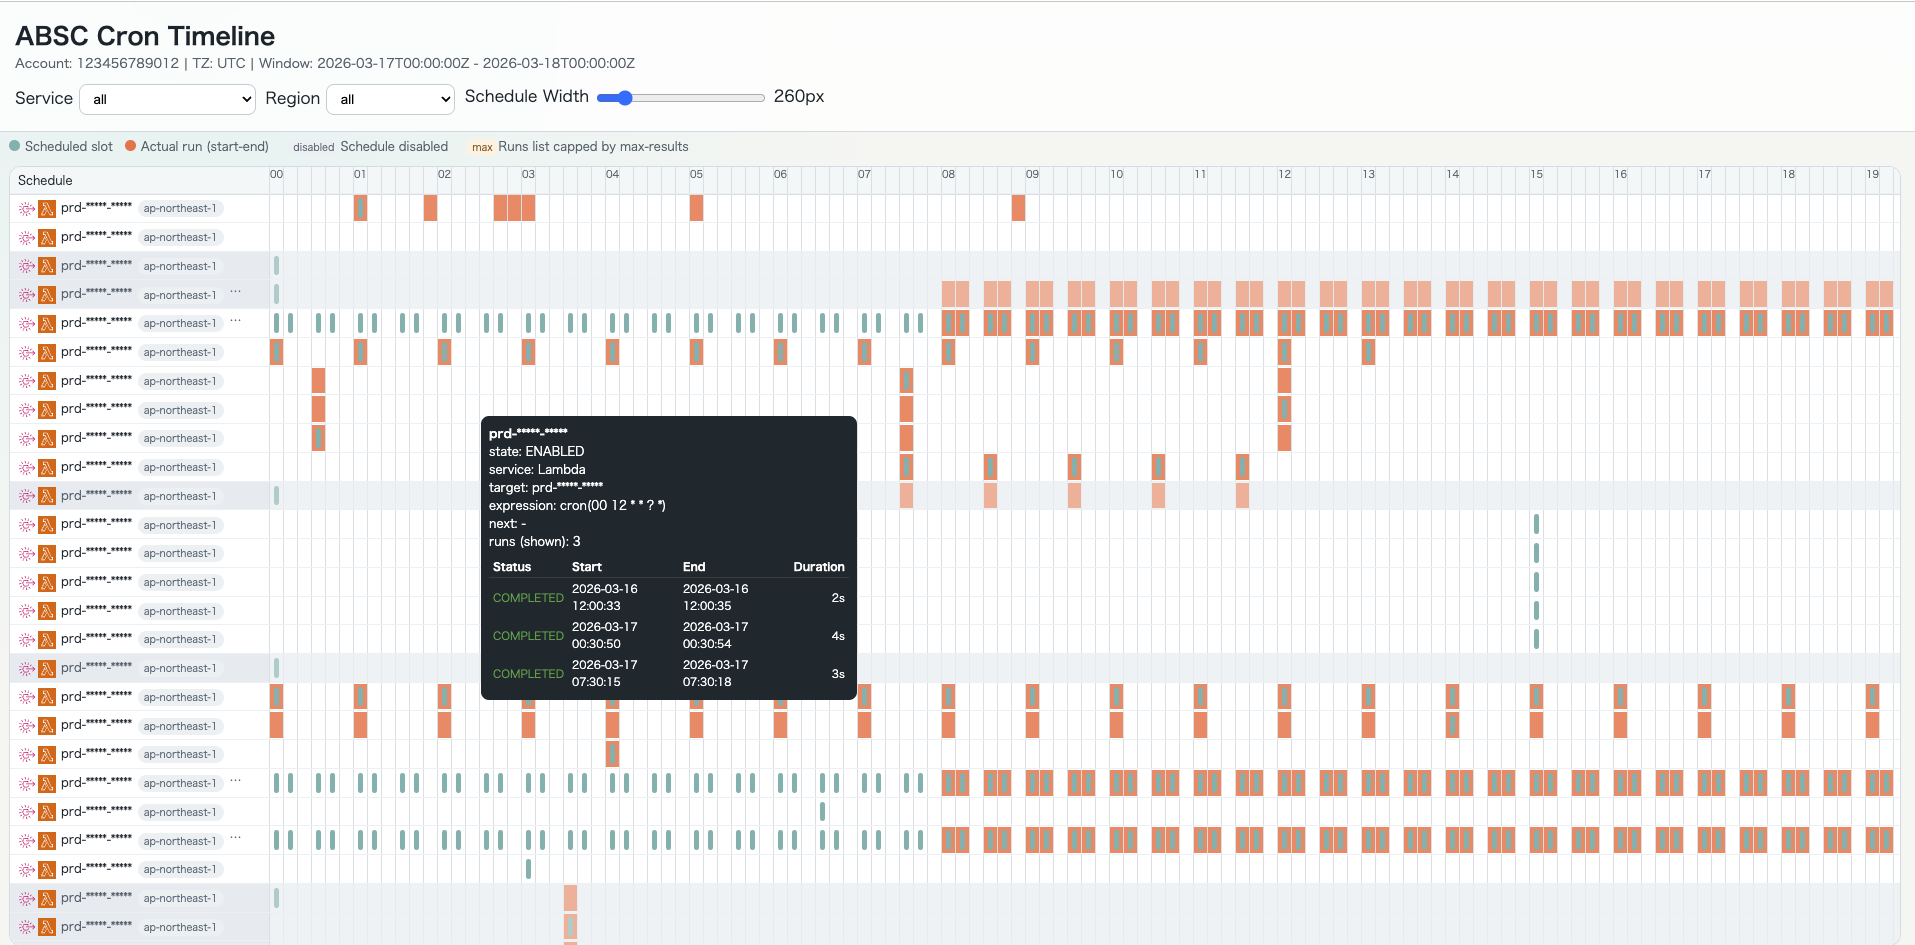
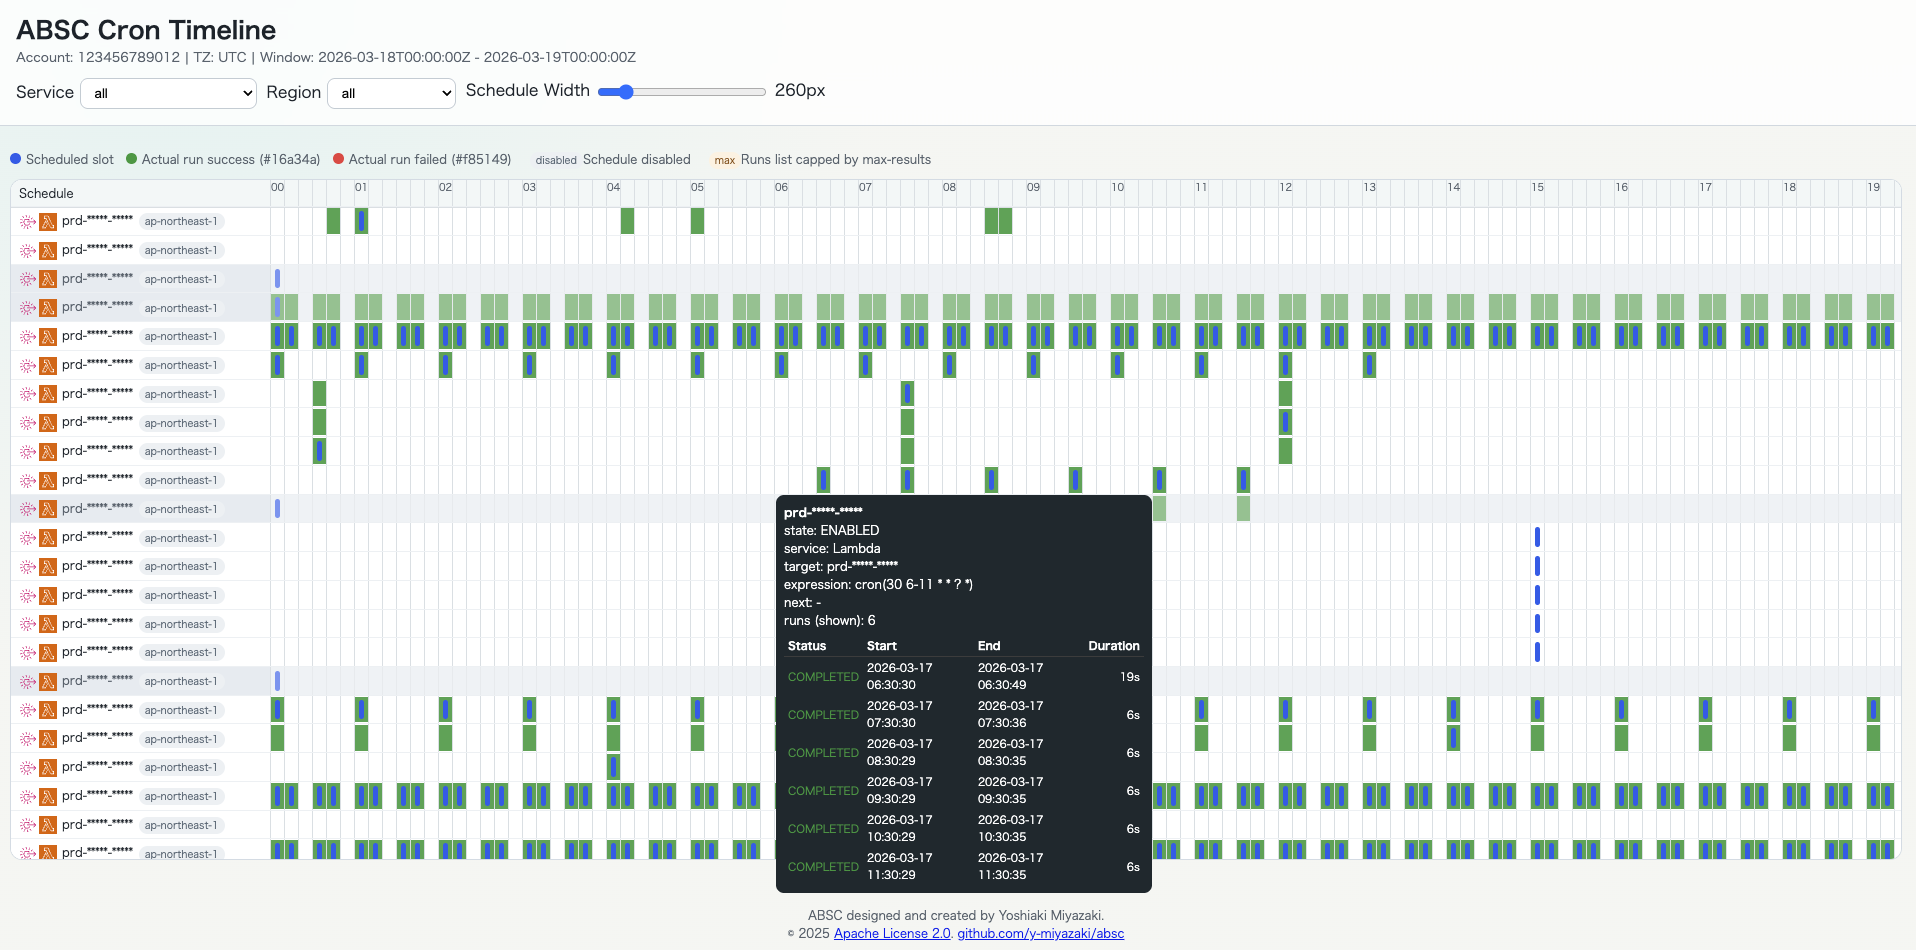
Enhance ECS and Glue run collection with optional filters; update HTML template styles

diff --git a/internal/exporter/html_template.html b/internal/exporter/html_template.html
@@ -13,9 +13,9 @@
       --sub: #5f6b76;
       --accent: #006d77;
       --grid: #dde3e7;
-      --run-success: #3fb950;
+      --run-success: #16a34a;
       --run-fail: #f85149;
-      --scheduled: #7db9b6;
+      --scheduled: #2563eb;
       --name-col-width: 260px;
     }
     body { margin: 0; font-family: "Noto Sans", "Segoe UI", sans-serif; color: var(--text); background: radial-gradient(circle at 10% 0%, #e4f4f3, var(--bg) 35%); display: flex; flex-direction: column; height: 100vh; overflow: hidden; }
@@ -30,7 +30,7 @@
     .dot.sch { background: var(--scheduled); }
     .dot.run-ok { background: var(--run-success); }
     .dot.run-fail { background: var(--run-fail); }
-    .timeline { border: 1px solid #d7e0e7; background: var(--panel); border-radius: 12px; overflow: auto; flex: 1; min-height: 0; }
+    .timeline { border: 1px solid #d7e0e7; background: var(--panel); border-radius: 12px; overflow: auto; flex: 1; min-height: 0; padding-bottom: 16px; box-sizing: border-box; }
     .row {
       display: grid;
       grid-template-columns: var(--name-col-width) repeat(144, 14px);
@@ -86,7 +86,7 @@
 <main>
   <div class="legend">
     <span><span class="dot sch"></span>Scheduled slot</span>
-    <span><span class="dot run-ok"></span>Actual run success (#3fb950)</span>
+    <span><span class="dot run-ok"></span>Actual run success (#16a34a)</span>
     <span><span class="dot run-fail"></span>Actual run failed (#f85149)</span>
     <span><span class="badge">disabled</span>Schedule disabled</span>
     <span><span class="badge warn">max</span>Runs list capped by max-results</span>
@@ -252,7 +252,7 @@ function render() {
         tooltip.style.left = e.clientX + 'px';
         tooltip.style.top = e.clientY + 'px';
         const recentRuns = (s.runs || []).slice(0, 8);
-        const statusColor = st => runClass(st) === 'run-fail' ? '#f85149' : '#3fb950';
+        const statusColor = st => runClass(st) === 'run-fail' ? '#f85149' : '#16a34a';
         const fmtDur = sec => {
           if (sec == null) return '-';
           if (sec < 60) return sec + 's';

diff --git a/internal/aws/resources/scheduler.go b/internal/aws/resources/scheduler.go
@@ -27,6 +27,13 @@ type SchedulerCollector struct {
 	region   string
 }
 
+type runTargetResolution struct {
+	hints              runTargetHints
+	runJobName         string
+	runTargetARN       string
+	hasBatchParameters bool
+}
+
 // NewSchedulerCollector builds regional clients for EventBridge Scheduler.
 func NewSchedulerCollector(cfg *aws.Config, region string) (*SchedulerCollector, error) {
 	return &SchedulerCollector{
@@ -79,9 +86,14 @@ func (c *SchedulerCollector) Collect(ctx context.Context, opts CollectOptions) (
 			runTargetARN := ""
 			runJobName := ""
 			hasBatchParameters := false
+			hints := runTargetHints{}
 			if detail.Target != nil {
 				targetARN = aws.ToString(detail.Target.Arn)
-				runTargetARN, runJobName, hasBatchParameters = resolveSchedulerRunTarget(targetARN, aws.ToString(detail.Target.Input))
+				resolved := resolveSchedulerRunTarget(targetARN, aws.ToString(detail.Target.Input))
+				runTargetARN = resolved.runTargetARN
+				runJobName = resolved.runJobName
+				hasBatchParameters = resolved.hasBatchParameters
+				hints = resolved.hints
 				if runTargetARN == "" {
 					runTargetARN = targetARN
 				}
@@ -105,7 +117,7 @@ func (c *SchedulerCollector) Collect(ctx context.Context, opts CollectOptions) (
 				Slots:                      buildSlots(aws.ToString(detail.ScheduleExpression)),
 				Runs:                       make([]Run, 0),
 			}
-			runs, runErr := collectRunsByTargetKind(ctx, targetKind, runTargetARN, runJobName, opts, deps, caches)
+			runs, runErr := collectRunsByTargetKind(ctx, targetKind, runTargetARN, runJobName, hints, opts, deps, caches)
 			if runErr != nil {
 				errs = append(errs, *runErr)
 			} else if runs != nil {
@@ -121,38 +133,41 @@ func (c *SchedulerCollector) Collect(ctx context.Context, opts CollectOptions) (
 }
 
 // resolveSchedulerRunTarget extracts the real downstream target from SDK inputs.
-func resolveSchedulerRunTarget(targetARN, input string) (runTargetARN, runJobName string, hasBatchParameters bool) {
+func resolveSchedulerRunTarget(targetARN, input string) runTargetResolution {
 	lowerARN := strings.ToLower(targetARN)
 	if strings.Contains(lowerARN, ":aws-sdk:sfn:startexecution") {
 		if v := getStringFromJSON(input, "StateMachineArn", "stateMachineArn", "state_machine_arn"); v != "" {
-			return v, "", false
+			return runTargetResolution{runTargetARN: v}
 		}
-		return "", "", false
+		return runTargetResolution{}
 	}
 	if strings.Contains(lowerARN, ":aws-sdk:batch:submitjob") {
 		queue := getStringFromJSON(input, "JobQueue", "jobQueue", "job_queue")
 		name := getStringFromJSON(input, "JobName", "jobName", "job_name")
-		return queue, name, true
+		return runTargetResolution{runTargetARN: queue, runJobName: name, hasBatchParameters: true}
 	}
 	if strings.Contains(lowerARN, ":aws-sdk:lambda:invoke") {
 		if v := getStringFromJSON(input, "FunctionName", "functionName", "function_name"); v != "" {
-			return v, "", false
+			return runTargetResolution{runTargetARN: v}
 		}
-		return "", "", false
+		return runTargetResolution{}
 	}
 	if strings.Contains(lowerARN, ":aws-sdk:glue:") {
 		if v := getStringFromJSON(input, "JobName", "jobName", "job_name"); v != "" {
-			return v, "", false
+			return runTargetResolution{runTargetARN: v}
 		}
-		return "", "", false
+		return runTargetResolution{}
 	}
 	if strings.Contains(lowerARN, ":aws-sdk:ecs:") {
+		resolved := runTargetResolution{}
 		if v := getStringFromJSON(input, "Cluster", "cluster"); v != "" {
-			return v, "", false
+			resolved.runTargetARN = v
 		}
-		return "", "", false
+		resolved.hints.ecsTaskDefinitionARN = getStringFromJSON(input, "TaskDefinition", "taskDefinition", "task_definition")
+		resolved.hints.ecsStartedBy = getStringFromJSON(input, "StartedBy", "startedBy", "started_by")
+		return resolved
 	}
-	return "", "", strings.Contains(lowerARN, ":batch:")
+	return runTargetResolution{hasBatchParameters: strings.Contains(lowerARN, ":batch:")}
 }
 
 // getStringFromJSON returns the first matching string field from a JSON object.

diff --git a/internal/aws/resources/eventbridge.go b/internal/aws/resources/eventbridge.go
@@ -11,6 +11,7 @@ import (
 	"github.com/aws/aws-sdk-go-v2/service/cloudwatchlogs"
 	"github.com/aws/aws-sdk-go-v2/service/ecs"
 	"github.com/aws/aws-sdk-go-v2/service/eventbridge"
+	eventbridgetypes "github.com/aws/aws-sdk-go-v2/service/eventbridge/types"
 	"github.com/aws/aws-sdk-go-v2/service/glue"
 	"github.com/aws/aws-sdk-go-v2/service/sfn"
 )
@@ -71,12 +72,25 @@ func (c *EventBridgeCollector) Collect(ctx context.Context, opts CollectOptions)
 				continue
 			}
 			enabled := strings.EqualFold(string(r.State), "ENABLED")
-			targets, listTargetsErr := c.svc.ListTargetsByRule(ctx, &eventbridge.ListTargetsByRuleInput{Rule: r.Name})
-			if listTargetsErr != nil {
-				errs = append(errs, ErrorRecord{Service: "eventbridge_rule", Region: c.region, Message: listTargetsErr.Error()})
+			allTargets := make([]eventbridgetypes.Target, 0)
+			var targetsToken *string
+			for {
+				targets, listTargetsErr := c.svc.ListTargetsByRule(ctx, &eventbridge.ListTargetsByRuleInput{Rule: r.Name, NextToken: targetsToken})
+				if listTargetsErr != nil {
+					errs = append(errs, ErrorRecord{Service: "eventbridge_rule", Region: c.region, Message: listTargetsErr.Error()})
+					allTargets = nil
+					break
+				}
+				allTargets = append(allTargets, targets.Targets...)
+				if targets.NextToken == nil {
+					break
+				}
+				targetsToken = targets.NextToken
+			}
+			if allTargets == nil {
 				continue
 			}
-			if len(targets.Targets) == 0 {
+			if len(allTargets) == 0 {
 				// EventBridge Rule APIs do not expose a deterministic "next invocation" timestamp,
 				// so this collector intentionally leaves NextInvocationAt empty.
 				schedules = append(schedules, Schedule{
@@ -95,11 +109,15 @@ func (c *EventBridgeCollector) Collect(ctx context.Context, opts CollectOptions)
 				continue
 			}
 
-			for i := range targets.Targets {
-				t := targets.Targets[i]
+			for i := range allTargets {
+				t := allTargets[i]
 				targetARN := aws.ToString(t.Arn)
 				targetKind := detectTargetKind(targetARN, t.BatchParameters != nil)
 				targetService := detectTargetService(targetARN)
+				hints := runTargetHints{}
+				if t.EcsParameters != nil {
+					hints.ecsTaskDefinitionARN = aws.ToString(t.EcsParameters.TaskDefinitionArn)
+				}
 				// EventBridge Rule APIs do not expose a deterministic "next invocation" timestamp,
 				// so this collector intentionally leaves NextInvocationAt empty.
 				s := Schedule{
@@ -123,7 +141,7 @@ func (c *EventBridgeCollector) Collect(ctx context.Context, opts CollectOptions)
 					jobName = aws.ToString(t.BatchParameters.JobName)
 				}
 
-				runs, runErr := collectRunsByTargetKind(ctx, targetKind, targetARN, jobName, opts, deps, caches)
+				runs, runErr := collectRunsByTargetKind(ctx, targetKind, targetARN, jobName, hints, opts, deps, caches)
 				if runErr != nil {
 					errs = append(errs, *runErr)
 				} else if runs != nil {

diff --git a/internal/aws/resources/collect_glue.go b/internal/aws/resources/collect_glue.go
@@ -23,38 +23,54 @@ func collectGlueRuns(ctx context.Context, svc *glue.Client, jobNameOrARN string,
 
 	// Limit the API request size to the Glue SDK's int32 field.
 	maxRes := safeInt32(maxResults)
-	// Glue returns newest job runs first, so filtering can remain linear.
-	out, err := svc.GetJobRuns(ctx, &glue.GetJobRunsInput{
-		JobName:    aws.String(jobName),
-		MaxResults: &maxRes,
-	})
-	if err != nil {
-		return nil, fmt.Errorf("get glue job runs for %s: %w", jobName, err)
+	if maxRes == 0 {
+		maxRes = safeInt32(defaultMaxResults)
 	}
 
-	runs := make([]Run, 0, len(out.JobRuns))
-	// Filter out historical runs outside the caller's lookback window.
-	for jobRunIndex := range out.JobRuns {
-		// Preserve Glue-specific fields while normalizing timestamps to UTC strings.
-		r := out.JobRuns[jobRunIndex]
-		if r.StartedOn == nil {
-			continue
+	runs := make([]Run, 0, maxResults)
+	var nextToken *string
+	for len(runs) < maxResults {
+		// Glue returns newest job runs first, so filtering can remain linear.
+		out, err := svc.GetJobRuns(ctx, &glue.GetJobRunsInput{
+			JobName:    aws.String(jobName),
+			MaxResults: &maxRes,
+			NextToken:  nextToken,
+		})
+		if err != nil {
+			return nil, fmt.Errorf("get glue job runs for %s: %w", jobName, err)
 		}
-		if r.StartedOn.Before(since) {
-			continue
+
+		// Filter out historical runs outside the caller's lookback window.
+		for jobRunIndex := range out.JobRuns {
+			// Preserve Glue-specific fields while normalizing timestamps to UTC strings.
+			r := out.JobRuns[jobRunIndex]
+			if r.StartedOn == nil {
+				continue
+			}
+			if r.StartedOn.Before(since) {
+				continue
+			}
+			run := Run{
+				RunID:         aws.ToString(r.Id),
+				Status:        string(r.JobRunState),
+				StartAt:       formatRFC3339UTC(*r.StartedOn),
+				SourceService: "glue",
+			}
+			if r.CompletedOn != nil {
+				run.EndAt = formatRFC3339UTC(*r.CompletedOn)
+				dur := int64(r.CompletedOn.Sub(*r.StartedOn).Seconds())
+				run.DurationSec = &dur
+			}
+			runs = append(runs, run)
+			if len(runs) >= maxResults {
+				break
+			}
 		}
-		run := Run{
-			RunID:         aws.ToString(r.Id),
-			Status:        string(r.JobRunState),
-			StartAt:       formatRFC3339UTC(*r.StartedOn),
-			SourceService: "glue",
+
+		if out.NextToken == nil {
+			break
 		}
-		if r.CompletedOn != nil {
-			run.EndAt = formatRFC3339UTC(*r.CompletedOn)
-			dur := int64(r.CompletedOn.Sub(*r.StartedOn).Seconds())
-			run.DurationSec = &dur
-		}
-		runs = append(runs, run)
+		nextToken = out.NextToken
 	}
 	return runs, nil
 }

diff --git a/internal/aws/resources/collect_runs.go b/internal/aws/resources/collect_runs.go
@@ -21,6 +21,12 @@ type runCollectorDeps struct {
 	region   string
 }
 
+// runTargetHints carries optional target-specific filters for run lookups.
+type runTargetHints struct {
+	ecsStartedBy         string
+	ecsTaskDefinitionARN string
+}
+
 // runCollectorCaches stores per-target run lookups to avoid duplicate API calls.
 // Successes and failures are both memoized for one collection pass.
 type runCollectorCaches struct {
@@ -54,7 +60,7 @@ func newRunCollectorCaches() *runCollectorCaches {
 
 // collectRunsByTargetKind routes each target to the service-specific run collector.
 // Cache lookups keep repeated targets within the same export from re-querying AWS.
-func collectRunsByTargetKind(ctx context.Context, targetKind, targetARN, jobName string, opts CollectOptions, deps runCollectorDeps, caches *runCollectorCaches) ([]Run, *ErrorRecord) {
+func collectRunsByTargetKind(ctx context.Context, targetKind, targetARN, jobName string, hints runTargetHints, opts CollectOptions, deps runCollectorDeps, caches *runCollectorCaches) ([]Run, *ErrorRecord) {
 	switch targetKind {
 	case "stepfunctions":
 		// Step Functions executions are keyed by the state machine ARN.
@@ -76,8 +82,9 @@ func collectRunsByTargetKind(ctx context.Context, targetKind, targetARN, jobName
 		}
 		return runs, nil
 	case "ecs":
-		runs, err := getCachedRuns(caches.ecsRunsCache, caches.ecsErrCache, targetARN, func() ([]Run, error) {
-			return collectECSRuns(ctx, deps.ecsSvc, targetARN, opts.Since, opts.MaxResults)
+		cacheKey := targetARN + "|" + hints.ecsTaskDefinitionARN + "|" + hints.ecsStartedBy
+		runs, err := getCachedRuns(caches.ecsRunsCache, caches.ecsErrCache, cacheKey, func() ([]Run, error) {
+			return collectECSRuns(ctx, deps.ecsSvc, targetARN, hints.ecsTaskDefinitionARN, hints.ecsStartedBy, opts.Since, opts.MaxResults)
 		})
 		if err != nil {
 			return nil, &ErrorRecord{Service: "ecs", Region: deps.region, Message: err.Error()}

diff --git a/internal/aws/resources/collect_ecs.go b/internal/aws/resources/collect_ecs.go
@@ -13,8 +13,9 @@ import (
 const ecsDescribeTasksBatchSize = 100
 
 // collectECSRuns returns stopped and running ECS tasks for the given cluster ARN.
+// Optional task definition and startedBy filters avoid mixing unrelated tasks.
 // The ECS API retains stopped task data for approximately 1 hour.
-func collectECSRuns(ctx context.Context, svc *ecs.Client, clusterARN string, since time.Time, maxResults int) ([]Run, error) {
+func collectECSRuns(ctx context.Context, svc *ecs.Client, clusterARN, taskDefinitionARN, startedBy string, since time.Time, maxResults int) ([]Run, error) {
 	// Query both running and stopped tasks because recent executions may still be active.
 	var taskARNs []string
 
@@ -61,6 +62,12 @@ func collectECSRuns(ctx context.Context, svc *ecs.Client, clusterARN string, sin
 		// Convert task state into the shared Run shape.
 		for taskIndex := range desc.Tasks {
 			t := desc.Tasks[taskIndex]
+			if taskDefinitionARN != "" && aws.ToString(t.TaskDefinitionArn) != taskDefinitionARN {
+				continue
+			}
+			if startedBy != "" && aws.ToString(t.StartedBy) != startedBy {
+				continue
+			}
 			// Tasks without StartedAt have not transitioned into an execution window yet.
 			if t.StartedAt == nil {
 				continue
